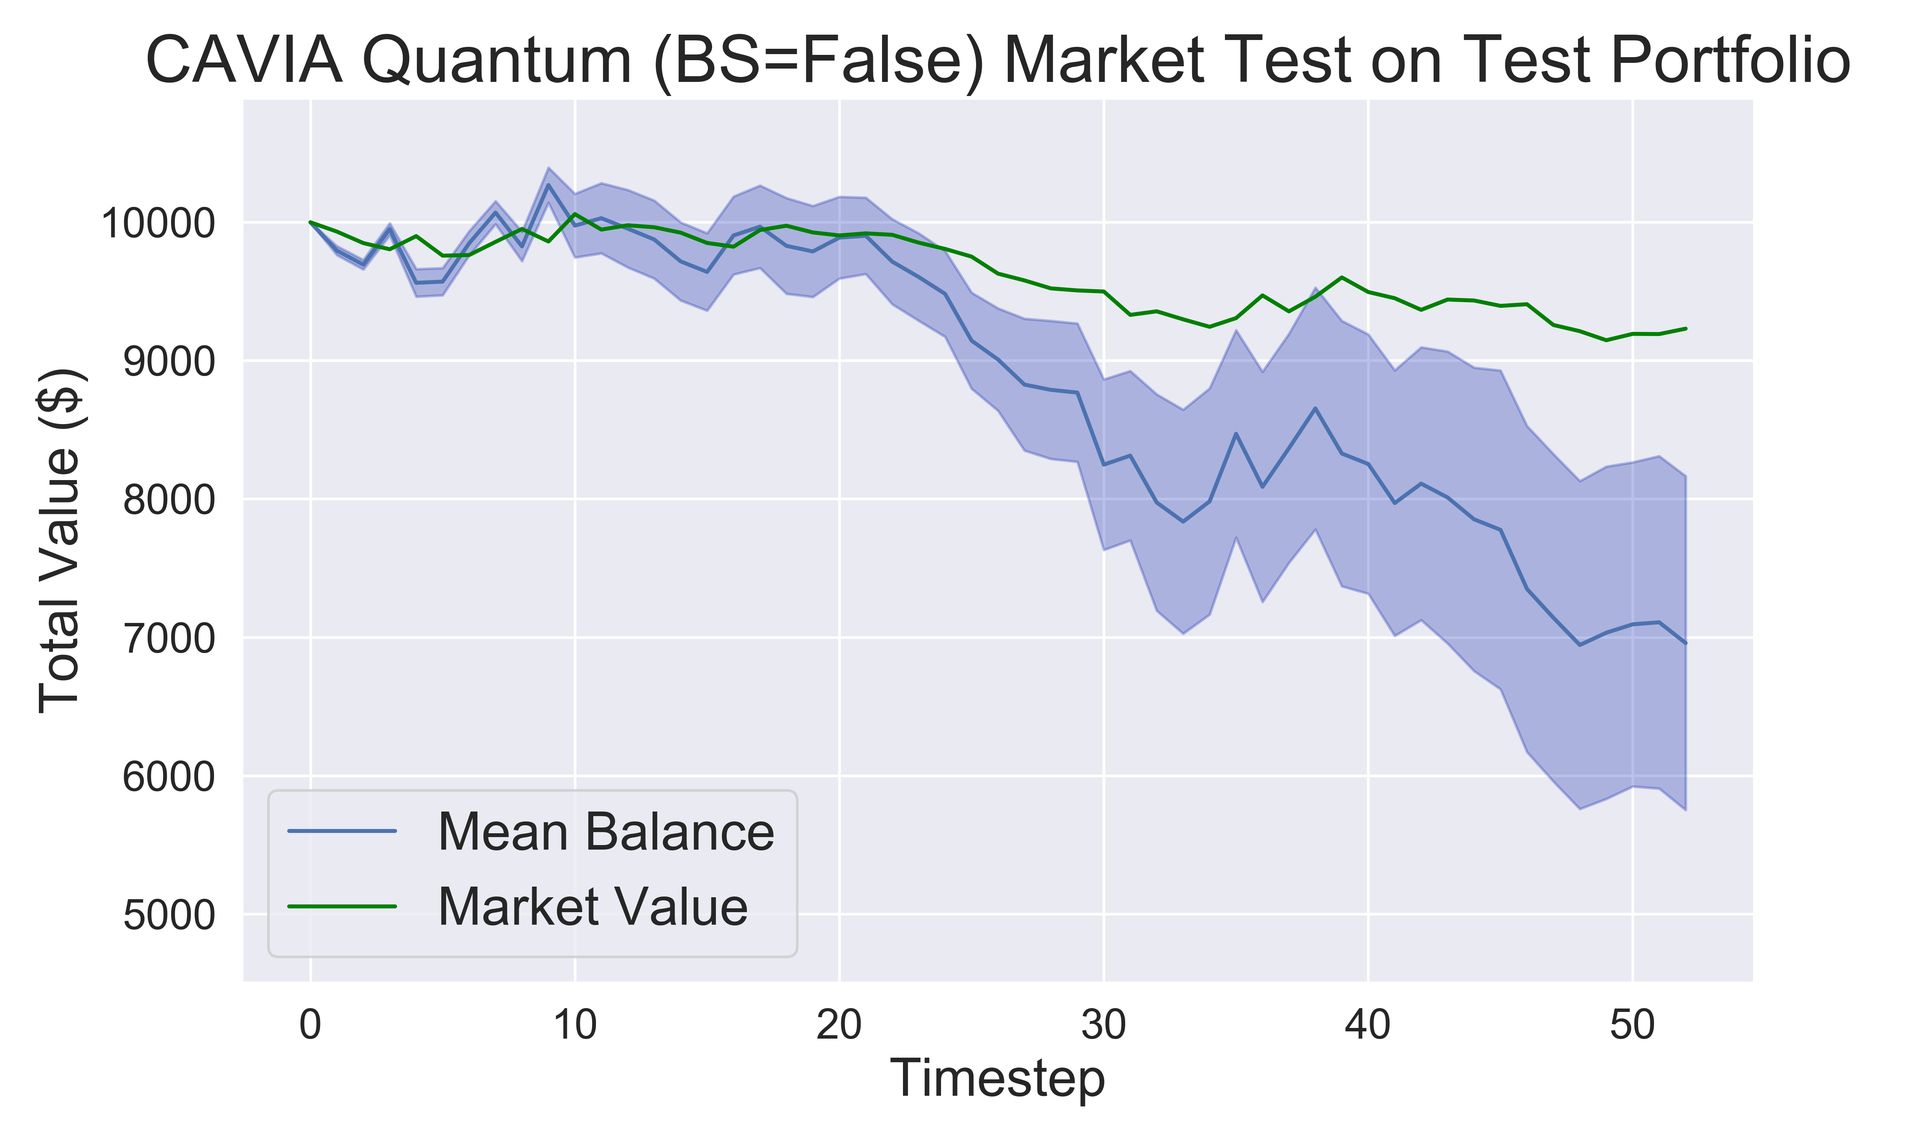
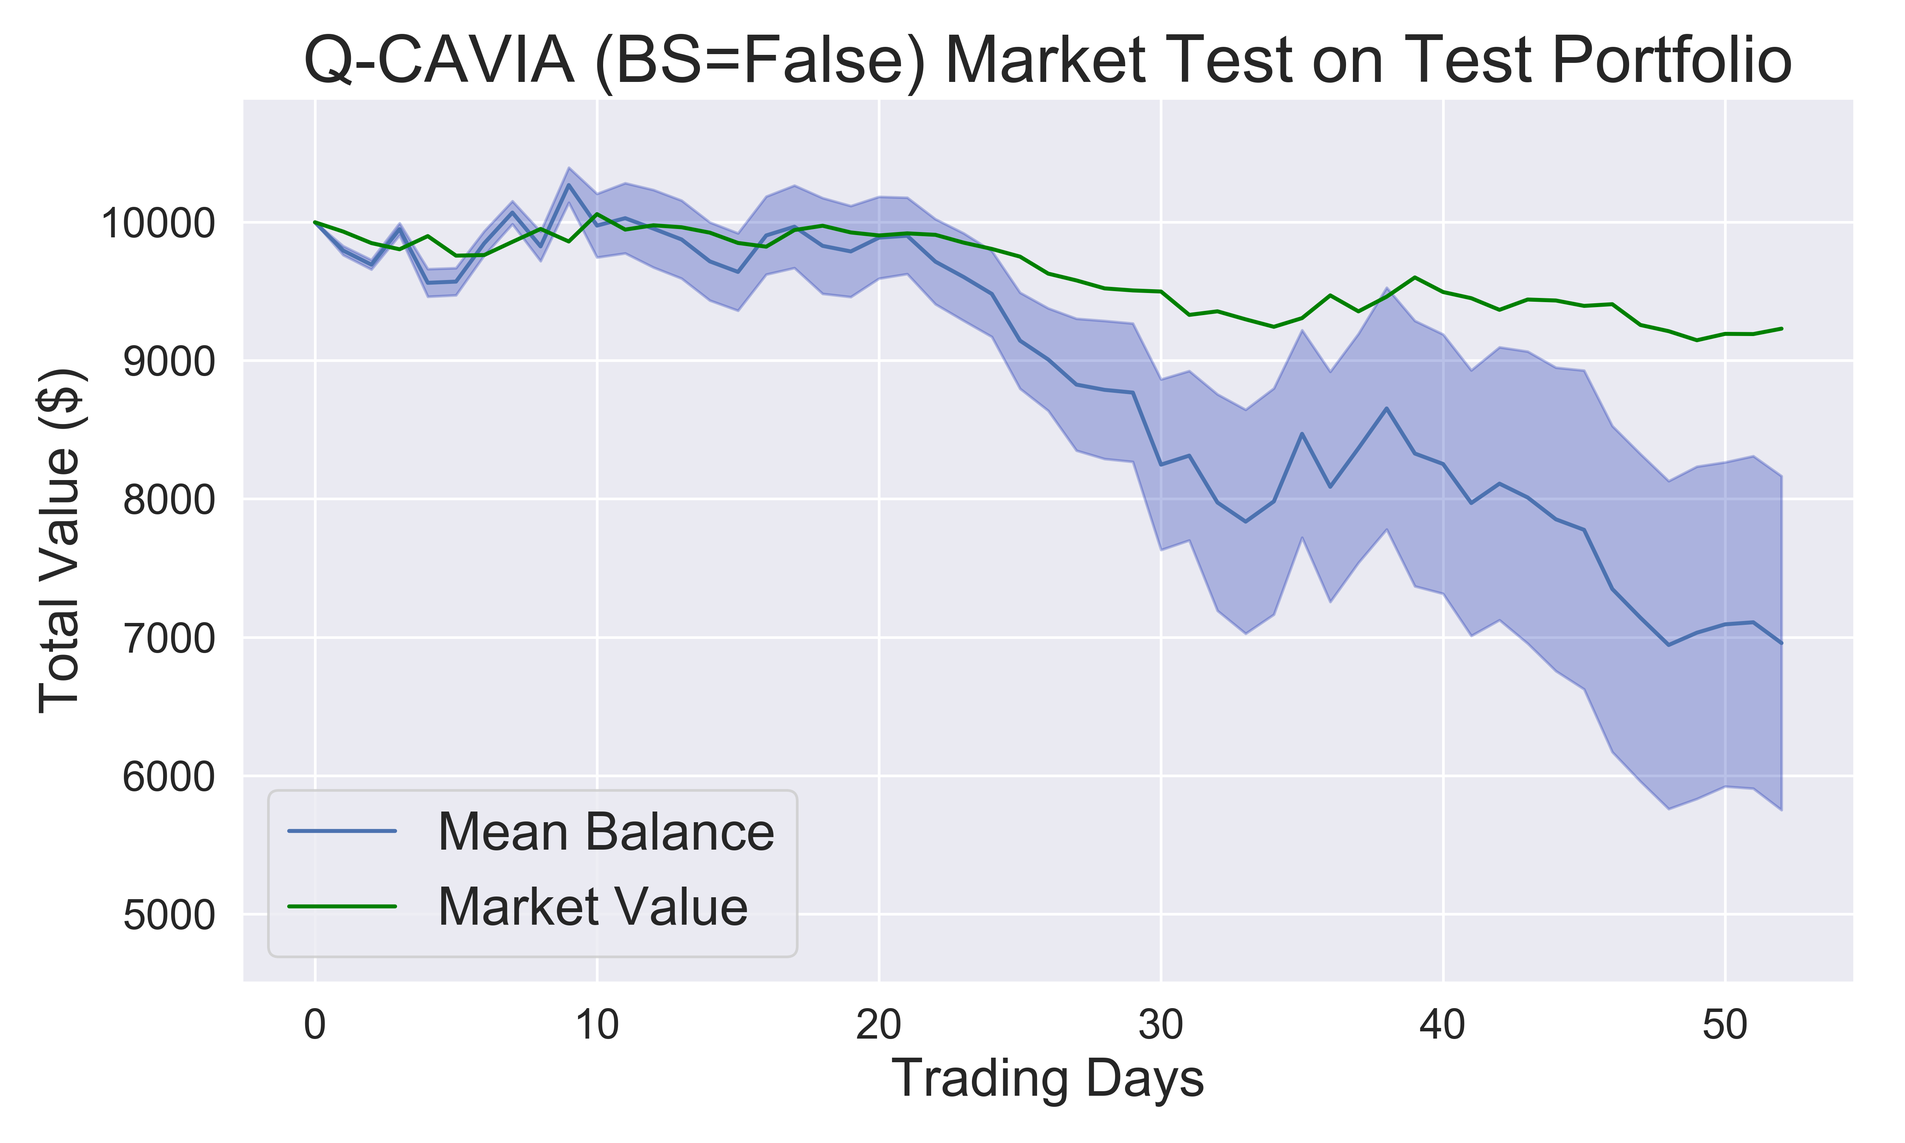
Updated plots with new axis titles

diff --git a/NES_Meta_Trading/plot_data.py b/NES_Meta_Trading/plot_data.py
@@ -193,7 +193,7 @@ def market_test_plot(trial_path, data_path, num_days, plot_title, plot_save_loc,
     plt.plot(df.market_value, label='Market Value', color='green')
     plt.fill_between(df.index, df.Mean - df.STD, df.Mean + df.STD, color = (0.1,0.2,0.7,0.3))
     plt.legend(loc=legend_loc)
-    plt.xlabel('Timestep')
+    plt.xlabel('Trading Days')
     plt.ylabel('Total Value ($)')
     plt.ylim(ylim)
     plt.title(plot_title)
@@ -286,7 +286,7 @@ def market_test_detail(trial_path1, trial_path2, data_path, title1, title2, plot
     ax3.set_position([box.x0, box.y0, box.width * 0.8, box.height])
     ax3.legend(loc='center left', bbox_to_anchor=(1, 0.5))
     ax3.set_title('Market Value')
-    ax3.set_xlabel('Timestep')
+    ax3.set_xlabel('Trading Days')
     ax3.set_ylabel('Total Value ($)')
 
     # fig.suptitle(plot_title)
@@ -353,11 +353,11 @@ def market_test_stock(trial_path1, trial_path2, data_path, stock_name, label1, l
 
     # %%
     fig,ax = plt.subplots()
-    ax.title.set_text("Stock '{:}' Model Weights vs Market Value".format(stock_name))
-    ax.plot(range(len(data)), means1, color=tableau10[0], label=label1)
-    ax.plot(range(len(data)), means2, color=tableau10[1], label=label2)
-    ax.set_xlabel("Timestep")
-    ax.set_ylabel("Stock Weights in Portfolio")
+    ax.title.set_text("Stock '{:}' Weight in Portfolio vs Stock Price".format(stock_name))
+    ax.plot(range(len(data)), means1, color=tableau10[0], label=label1, linestyle='dashed')
+    ax.plot(range(len(data)), means2, color=tableau10[1], label=label2, linestyle='dashed')
+    ax.set_xlabel("Trading Days")
+    ax.set_ylabel("Stock Weight")
     vals = ax.get_yticks()
     ax.set_yticklabels(['{:}%'.format(int(x)) for x in vals])
     ax.legend(loc=label_loc)
@@ -495,19 +495,19 @@ market_test_detail(
     trading_limit=10
 )
 ################
-# MAML Quantum BS=False#
+# Q-MAML BS=False#
 ################
 training_plot(
     trial_path='C:/Github/QuantumResearch/NES_Meta_Trading/results/maml_quantum/train/E=25_PS=15_S=0.1_LR=0.03_sk=1_IM=10000_L=None_WS=1_ND=180_BS=False',
     num_remove=0,
-    plot_title='MAML Quantum (BS=False) Training on CC Stock Portfolios',
+    plot_title='Q-MAML (BS=False) Training on CC Stock Portfolios',
     plot_save_loc='C:/Github/QuantumResearch/NES_Meta_Trading/graphics/MAML_Quantum/MAML_Quantum_BSFalse_50-10Epochs_12iters_CCData_LimitNone_training.png',
     ylim=(-15,72)
 )
 training_plot(
     trial_path='C:/Github/QuantumResearch/NES_Meta_Trading/results/maml_quantum/test/E=5_PS=15_S=0.1_LR=0.03_sk=1_IM=10000_L=None_WS=1_ND=180_BS=False',
     num_remove=0,
-    plot_title='MAML Quantum (BS=False) Test Training on Test Portfolio',
+    plot_title='Q-MAML (BS=False) Test Training on Test Portfolio',
     plot_save_loc='C:/Github/QuantumResearch/NES_Meta_Trading/graphics/MAML_Quantum/MAML_Quantum_BSFalse_50-10Epochs_12iters_CCData_LimitNone_testTrain.png',
     ylim=(-15, 72)
 )
@@ -515,7 +515,7 @@ market_test_plot(
     trial_path='C:/Github/QuantumResearch/NES_Meta_Trading/results/maml_quantum/test/E=5_PS=15_S=0.1_LR=0.03_sk=1_IM=10000_L=None_WS=1_ND=180_BS=False',
     data_path='C:/Github/QuantumResearch/NES_Meta_Trading/dataset/test_cavia/',
     num_days=180,
-    plot_title='MAML Quantum (BS=False) Market Test on Test Portfolio',
+    plot_title='Q-MAML (BS=False) Market Test on Test Portfolio',
     plot_save_loc='C:/Github/QuantumResearch/NES_Meta_Trading/graphics/MAML_Quantum/MAML_Quantum_BSFalse_50-10Epochs_12iters_CCData_LimitNone_marketTest.png',
     legend_loc='lower left',
     trading_limit=200,
@@ -524,19 +524,19 @@ market_test_plot(
 )
 
 #################
-# CAVIA Quantum BS=False#
+# Q-CAVIA BS=False#
 #################
 training_plot(
     trial_path='C:/Github/QuantumResearch/NES_Meta_Trading/results/cavia_quantum/train/E=25_PS=15_S=0.1_LR=0.03_sk=1_IM=10000_L=None_WS=1_ND=180_NCP=2_BS=False',
     num_remove=0,
-    plot_title='CAVIA Quantum (BS=False) Training on CC Stock Portfolios',
+    plot_title='Q-CAVIA (BS=False) Training on CC Stock Portfolios',
     plot_save_loc='C:/Github/QuantumResearch/NES_Meta_Trading/graphics/CAVIA_Quantum/CAVIA_Quantum_BSFalse_50-10Epochs_12iters_CCData_LimitNone_training.png',
     ylim=(-25,62)
 )
 training_plot(
     trial_path='C:/Github/QuantumResearch/NES_Meta_Trading/results/cavia_quantum/test/E=5_PS=15_S=0.1_LR=0.03_sk=1_IM=10000_L=None_WS=1_ND=180_NCP=2_BS=False',
     num_remove=0,
-    plot_title='CAVIA Quantum (BS=False) Test Training on Test Portfolio',
+    plot_title='Q-CAVIA (BS=False) Test Training on Test Portfolio',
     plot_save_loc='C:/Github/QuantumResearch/NES_Meta_Trading/graphics/CAVIA_Quantum/CAVIA_Quantum_BSFalse_50-10Epochs_12iters_CCData_LimitNone_testTrain.png',
     ylim=(-25, 62)
 )
@@ -544,7 +544,7 @@ market_test_plot(
     trial_path='C:/Github/QuantumResearch/NES_Meta_Trading/results/cavia_quantum/test/E=5_PS=15_S=0.1_LR=0.03_sk=1_IM=10000_L=None_WS=1_ND=180_NCP=2_BS=False',
     data_path='C:/Github/QuantumResearch/NES_Meta_Trading/dataset/test_cavia/',
     num_days=180,
-    plot_title='CAVIA Quantum (BS=False) Market Test on Test Portfolio',
+    plot_title='Q-CAVIA (BS=False) Market Test on Test Portfolio',
     plot_save_loc='C:/Github/QuantumResearch/NES_Meta_Trading/graphics/CAVIA_Quantum/CAVIA_Quantum_BSFalse_50-10Epochs_12iters_CCData_LimitNone_marketTest.png',
     legend_loc='lower left',
     trading_limit=200,
@@ -557,26 +557,26 @@ market_test_detail(
     trial_path2='C:/Github/QuantumResearch/NES_Meta_Trading/results/cavia_quantum/test/E=5_PS=15_S=0.1_LR=0.03_sk=1_IM=10000_L=None_WS=1_ND=180_NCP=2_BS=False',
     data_path='C:/Github/QuantumResearch/NES_Meta_Trading/dataset/test_cavia/',
     plot_save_loc='C:/Github/QuantumResearch/NES_Meta_Trading/graphics/CAVIA_Quantum/CAVIA_MAML_Quantum_BSFalse_2500-20Epochs_12iters_CCData_Limit10_marketTestDetail.png',
-    title1='MAML Quantum (BS=False) Distribution of Portfolio',
-    title2='CAVIA Quantum (BS=False) Distribution of Portfolio',
+    title1='Q-MAML (BS=False) Distribution of Portfolio',
+    title2='Q-CAVIA (BS=False) Distribution of Portfolio',
     num_days=180,
     trading_limit=200
 )
 
 ################
-# MAML Quantum BS=True#
+# Q-MAML BS=True#
 ################
 training_plot(
     trial_path='C:/Github/QuantumResearch/NES_Meta_Trading/results/maml_quantum/train/E=25_PS=15_S=0.1_LR=0.03_sk=1_IM=10000_L=None_WS=1_ND=180_BS=True',
     num_remove=0,
-    plot_title='MAML Quantum (BS=True) Training on CC Stock Portfolios',
+    plot_title='Q-MAML (BS=True) Training on CC Stock Portfolios',
     plot_save_loc='C:/Github/QuantumResearch/NES_Meta_Trading/graphics/MAML_Quantum/MAML_Quantum_BSTrue_50-10Epochs_12iters_CCData_LimitNone_training.png',
     ylim=(-18,39)
 )
 training_plot(
     trial_path='C:/Github/QuantumResearch/NES_Meta_Trading/results/maml_quantum/test/E=5_PS=15_S=0.1_LR=0.03_sk=1_IM=10000_L=None_WS=1_ND=180_BS=True',
     num_remove=0,
-    plot_title='MAML Quantum (BS=True) Test Training on Test Portfolio',
+    plot_title='Q-MAML (BS=True) Test Training on Test Portfolio',
     plot_save_loc='C:/Github/QuantumResearch/NES_Meta_Trading/graphics/MAML_Quantum/MAML_Quantum_BSTrue_50-10Epochs_12iters_CCData_LimitNone_testTrain.png',
     ylim=(-18, 39)
 )
@@ -584,7 +584,7 @@ market_test_plot(
     trial_path='C:/Github/QuantumResearch/NES_Meta_Trading/results/maml_quantum/test/E=5_PS=15_S=0.1_LR=0.03_sk=1_IM=10000_L=None_WS=1_ND=180_BS=True',
     data_path='C:/Github/QuantumResearch/NES_Meta_Trading/dataset/test_cavia/',
     num_days=180,
-    plot_title='MAML Quantum (BS=True) Market Test on Test Portfolio',
+    plot_title='Q-MAML (BS=True) Market Test on Test Portfolio',
     plot_save_loc='C:/Github/QuantumResearch/NES_Meta_Trading/graphics/MAML_Quantum/MAML_Quantum_BSTrue_50-10Epochs_12iters_CCData_LimitNone_marketTest.png',
     legend_loc='lower left',
     trading_limit=200,
@@ -593,19 +593,19 @@ market_test_plot(
 )
 
 #################
-# CAVIA Quantum BS=True#
+# Q-CAVIA BS=True#
 #################
 training_plot(
     trial_path='C:/Github/QuantumResearch/NES_Meta_Trading/results/cavia_quantum/train/E=25_PS=15_S=0.1_LR=0.03_sk=1_IM=10000_L=None_WS=1_ND=180_NCP=2_BS=True',
     num_remove=0,
-    plot_title='CAVIA Quantum (BS=True) Training on CC Stock Portfolios',
+    plot_title='Q-CAVIA (BS=True) Training on CC Stock Portfolios',
     plot_save_loc='C:/Github/QuantumResearch/NES_Meta_Trading/graphics/CAVIA_Quantum/CAVIA_Quantum_BSTrue_50-10Epochs_12iters_CCData_LimitNone_training.png',
     ylim=(-15,37)
 )
 training_plot(
     trial_path='C:/Github/QuantumResearch/NES_Meta_Trading/results/cavia_quantum/test/E=5_PS=15_S=0.1_LR=0.03_sk=1_IM=10000_L=None_WS=1_ND=180_NCP=2_BS=True',
     num_remove=0,
-    plot_title='CAVIA Quantum (BS=True) Test Training on Test Portfolio',
+    plot_title='Q-CAVIA (BS=True) Test Training on Test Portfolio',
     plot_save_loc='C:/Github/QuantumResearch/NES_Meta_Trading/graphics/CAVIA_Quantum/CAVIA_Quantum_BSTrue_50-10Epochs_12iters_CCData_LimitNone_testTrain.png',
     ylim=(-15, 37)
 )
@@ -613,7 +613,7 @@ market_test_plot(
     trial_path='C:/Github/QuantumResearch/NES_Meta_Trading/results/cavia_quantum/test/E=5_PS=15_S=0.1_LR=0.03_sk=1_IM=10000_L=None_WS=1_ND=180_NCP=2_BS=True',
     data_path='C:/Github/QuantumResearch/NES_Meta_Trading/dataset/test_cavia/',
     num_days=180,
-    plot_title='CAVIA Quantum (BS=True) Market Test on Test Portfolio',
+    plot_title='Q-CAVIA (BS=True) Market Test on Test Portfolio',
     plot_save_loc='C:/Github/QuantumResearch/NES_Meta_Trading/graphics/CAVIA_Quantum/CAVIA_Quantum_BSTrue_50-10Epochs_12iters_CCData_LimitNone_marketTest.png',
     legend_loc='lower left',
     trading_limit=200,
@@ -626,8 +626,8 @@ market_test_detail(
     trial_path2='C:/Github/QuantumResearch/NES_Meta_Trading/results/cavia_quantum/test/E=5_PS=15_S=0.1_LR=0.03_sk=1_IM=10000_L=None_WS=1_ND=180_NCP=2_BS=True',
     data_path='C:/Github/QuantumResearch/NES_Meta_Trading/dataset/test_cavia/',
     plot_save_loc='C:/Github/QuantumResearch/NES_Meta_Trading/graphics/CAVIA_Quantum/CAVIA_MAML_Quantum_BSTrue_2500-20Epochs_12iters_CCData_Limit10_marketTestDetail.png',
-    title1='MAML Quantum (BS=True) Distribution of Portfolio',
-    title2='CAVIA Quantum (BS=True) Distribution of Portfolio',
+    title1='Q-MAML (BS=True) Distribution of Portfolio',
+    title2='Q-CAVIA (BS=True) Distribution of Portfolio',
     num_days=180,
     trading_limit=200
 )
@@ -635,88 +635,88 @@ market_test_detail(
 #################
 # QMAML and QCAVIA on 180 days of trading
 #################
-training_plot(
-    trial_path='C:/Github/QuantumResearch/NES_Meta_Trading/results/maml_quantum/train/E=25_PS=15_S=0.1_LR=0.03_sk=1_IM=10000_L=None_WS=1_ND=180_BS=False',
-    num_remove=0,
-    plot_title='MAML Quantum (BS=False) Training on CC Stock Portfolios',
-    plot_save_loc='C:/Github/QuantumResearch/NES_Meta_Trading/graphics/Quantum_180_Days/MAML_Quantum_BSFalse_25-5Epochs_8iters_CCData_LimitNone_training.png'
-)
-training_plot(
-    trial_path='C:/Github/QuantumResearch/NES_Meta_Trading/results/maml_quantum/test/E=5_PS=15_S=0.1_LR=0.03_sk=1_IM=10000_L=None_WS=1_ND=180_BS=False',
-    num_remove=0,
-    plot_title='MAML Quantum (BS=False) Test Training on Test Portfolio',
-    plot_save_loc='C:/Github/QuantumResearch/NES_Meta_Trading/graphics/Quantum_180_Days/MAML_Quantum_BSFalse_25-5Epochs_8iters_CCData_LimitNone_testTrain.png'
-)
-market_test_plot(
-    trial_path='C:/Github/QuantumResearch/NES_Meta_Trading/results/maml_quantum/test/E=5_PS=15_S=0.1_LR=0.03_sk=1_IM=10000_L=None_WS=1_ND=180_BS=False',
-    data_path='C:/Github/QuantumResearch/NES_Meta_Trading/dataset/test_cavia/',
-    num_days=180,
-    plot_title='MAML Quantum (BS=False) Market Test on Test Portfolio',
-    plot_save_loc='C:/Github/QuantumResearch/NES_Meta_Trading/graphics/Quantum_180_Days/MAML_Quantum_BSFalse_25-5Epochs_8iters_CCData_LimitNone_marketTest.png',
-    legend_loc='lower left',
-    trading_limit=200,
-    offset=-1
-)
-
-######################################
-
-training_plot(
-    trial_path='C:/Github/QuantumResearch/NES_Meta_Trading/results/cavia_quantum/train/E=25_PS=15_S=0.1_LR=0.03_sk=1_IM=10000_L=None_WS=1_ND=180_NCP=2_BS=False',
-    num_remove=0,
-    plot_title='CAVIA Quantum (BS=False) Training on CC Stock Portfolios',
-    plot_save_loc='C:/Github/QuantumResearch/NES_Meta_Trading/graphics/Quantum_180_Days/CAVIA_Quantum_BSFalse_25-5Epochs_8iters_CCData_LimitNone_training.png'
-)
-training_plot(
-    trial_path='C:/Github/QuantumResearch/NES_Meta_Trading/results/cavia_quantum/test/E=5_PS=15_S=0.1_LR=0.03_sk=1_IM=10000_L=None_WS=1_ND=180_NCP=2_BS=False',
-    num_remove=0,
-    plot_title='CAVIA Quantum (BS=False) Test Training on Test Portfolio',
-    plot_save_loc='C:/Github/QuantumResearch/NES_Meta_Trading/graphics/Quantum_180_Days/CAVIA_Quantum_BSFalse_25-5Epochs_8iters_CCData_LimitNone_testTrain.png'
-)
-market_test_plot(
-    trial_path='C:/Github/QuantumResearch/NES_Meta_Trading/results/cavia_quantum/test/E=5_PS=15_S=0.1_LR=0.03_sk=1_IM=10000_L=None_WS=1_ND=180_NCP=2_BS=False',
-    data_path='C:/Github/QuantumResearch/NES_Meta_Trading/dataset/test_cavia/',
-    num_days=180,
-    plot_title='CAVIA Quantum (BS=False) Market Test on Test Portfolio',
-    plot_save_loc='C:/Github/QuantumResearch/NES_Meta_Trading/graphics/Quantum_180_Days/CAVIA_Quantum_BSFalse_25-5Epochs_8iters_CCData_LimitNone_marketTest.png',
-    legend_loc='lower left',
-    trading_limit=200,
-    offset=-1
-)
-market_test_detail(
-    trial_path1='C:/Github/QuantumResearch/NES_Meta_Trading/results/maml_quantum/test/E=5_PS=15_S=0.1_LR=0.03_sk=1_IM=10000_L=None_WS=1_ND=180_BS=False',
-    trial_path2='C:/Github/QuantumResearch/NES_Meta_Trading/results/cavia_quantum/test/E=5_PS=15_S=0.1_LR=0.03_sk=1_IM=10000_L=None_WS=1_ND=180_NCP=2_BS=False',
-    data_path='C:/Github/QuantumResearch/NES_Meta_Trading/dataset/test_cavia/',
-    plot_save_loc='C:/Github/QuantumResearch/NES_Meta_Trading/graphics/Quantum_180_Days/CAVIA_MAML_Quantum_BSFalse_25-5Epochs_8iters_CCData_LimitNone_marketTestDetail.png',
-    title1='MAML Quantum (BS=False) Distribution of Portfolio',
-    title2='CAVIA Quantum (BS=False) Distribution of Portfolio',
-    num_days=180,
-    trading_limit=200
-)
-
-#################
-# QMAML and QCAVIA on 360 days of trading
-#################
-training_plot(
-    trial_path='C:/Github/QuantumResearch/NES_Meta_Trading/results/maml_quantum/train/E=25_PS=15_S=0.1_LR=0.03_sk=1_IM=10000_L=None_WS=1_ND=360_BS=False',
-    num_remove=0,
-    plot_title='MAML Quantum (BS=False) Training on CC Stock Portfolios',
-    plot_save_loc='C:/Github/QuantumResearch/NES_Meta_Trading/graphics/Quantum_360_Days/MAML_Quantum_BSFalse_25-5Epochs_8iters_CCData_LimitNone_training.png'
-)
-training_plot(
-    trial_path='C:/Github/QuantumResearch/NES_Meta_Trading/results/maml_quantum/test/E=10_PS=15_S=0.1_LR=0.03_sk=1_IM=10000_L=None_WS=1_ND=360_BS=False',
-    num_remove=0,
-    plot_title='MAML Quantum (BS=False) Test Training on Test Portfolio',
-    plot_save_loc='C:/Github/QuantumResearch/NES_Meta_Trading/graphics/Quantum_360_Days/MAML_Quantum_BSFalse_25-5Epochs_8iters_CCData_LimitNone_testTrain.png'
-)
-market_test_plot(
-    trial_path='C:/Github/QuantumResearch/NES_Meta_Trading/results/maml_quantum/test/E=10_PS=15_S=0.1_LR=0.03_sk=1_IM=10000_L=None_WS=1_ND=360_BS=False',
-    data_path='C:/Github/QuantumResearch/NES_Meta_Trading/dataset/test_cavia/',
-    num_days=360,
-    plot_title='MAML Quantum (BS=False) Market Test on Test Portfolio',
-    plot_save_loc='C:/Github/QuantumResearch/NES_Meta_Trading/graphics/Quantum_360_Days/MAML_Quantum_BSFalse_25-5Epochs_8iters_CCData_LimitNone_marketTest.png',
-    legend_loc='lower left',
-    trading_limit=200,
-    offset=-1
-)
-
-######################################
+# training_plot(
+#     trial_path='C:/Github/QuantumResearch/NES_Meta_Trading/results/maml_quantum/train/E=25_PS=15_S=0.1_LR=0.03_sk=1_IM=10000_L=None_WS=1_ND=180_BS=False',
+#     num_remove=0,
+#     plot_title='Q-MAML (BS=False) Training on CC Stock Portfolios',
+#     plot_save_loc='C:/Github/QuantumResearch/NES_Meta_Trading/graphics/Quantum_180_Days/MAML_Quantum_BSFalse_25-5Epochs_8iters_CCData_LimitNone_training.png'
+# )
+# training_plot(
+#     trial_path='C:/Github/QuantumResearch/NES_Meta_Trading/results/maml_quantum/test/E=5_PS=15_S=0.1_LR=0.03_sk=1_IM=10000_L=None_WS=1_ND=180_BS=False',
+#     num_remove=0,
+#     plot_title='Q-MAML (BS=False) Test Training on Test Portfolio',
+#     plot_save_loc='C:/Github/QuantumResearch/NES_Meta_Trading/graphics/Quantum_180_Days/MAML_Quantum_BSFalse_25-5Epochs_8iters_CCData_LimitNone_testTrain.png'
+# )
+# market_test_plot(
+#     trial_path='C:/Github/QuantumResearch/NES_Meta_Trading/results/maml_quantum/test/E=5_PS=15_S=0.1_LR=0.03_sk=1_IM=10000_L=None_WS=1_ND=180_BS=False',
+#     data_path='C:/Github/QuantumResearch/NES_Meta_Trading/dataset/test_cavia/',
+#     num_days=180,
+#     plot_title='Q-MAML (BS=False) Market Test on Test Portfolio',
+#     plot_save_loc='C:/Github/QuantumResearch/NES_Meta_Trading/graphics/Quantum_180_Days/MAML_Quantum_BSFalse_25-5Epochs_8iters_CCData_LimitNone_marketTest.png',
+#     legend_loc='lower left',
+#     trading_limit=200,
+#     offset=-1
+# )
+#
+# ######################################
+#
+# training_plot(
+#     trial_path='C:/Github/QuantumResearch/NES_Meta_Trading/results/cavia_quantum/train/E=25_PS=15_S=0.1_LR=0.03_sk=1_IM=10000_L=None_WS=1_ND=180_NCP=2_BS=False',
+#     num_remove=0,
+#     plot_title='Q-CAVIA (BS=False) Training on CC Stock Portfolios',
+#     plot_save_loc='C:/Github/QuantumResearch/NES_Meta_Trading/graphics/Quantum_180_Days/CAVIA_Quantum_BSFalse_25-5Epochs_8iters_CCData_LimitNone_training.png'
+# )
+# training_plot(
+#     trial_path='C:/Github/QuantumResearch/NES_Meta_Trading/results/cavia_quantum/test/E=5_PS=15_S=0.1_LR=0.03_sk=1_IM=10000_L=None_WS=1_ND=180_NCP=2_BS=False',
+#     num_remove=0,
+#     plot_title='Q-CAVIA (BS=False) Test Training on Test Portfolio',
+#     plot_save_loc='C:/Github/QuantumResearch/NES_Meta_Trading/graphics/Quantum_180_Days/CAVIA_Quantum_BSFalse_25-5Epochs_8iters_CCData_LimitNone_testTrain.png'
+# )
+# market_test_plot(
+#     trial_path='C:/Github/QuantumResearch/NES_Meta_Trading/results/cavia_quantum/test/E=5_PS=15_S=0.1_LR=0.03_sk=1_IM=10000_L=None_WS=1_ND=180_NCP=2_BS=False',
+#     data_path='C:/Github/QuantumResearch/NES_Meta_Trading/dataset/test_cavia/',
+#     num_days=180,
+#     plot_title='Q-CAVIA (BS=False) Market Test on Test Portfolio',
+#     plot_save_loc='C:/Github/QuantumResearch/NES_Meta_Trading/graphics/Quantum_180_Days/CAVIA_Quantum_BSFalse_25-5Epochs_8iters_CCData_LimitNone_marketTest.png',
+#     legend_loc='lower left',
+#     trading_limit=200,
+#     offset=-1
+# )
+# market_test_detail(
+#     trial_path1='C:/Github/QuantumResearch/NES_Meta_Trading/results/maml_quantum/test/E=5_PS=15_S=0.1_LR=0.03_sk=1_IM=10000_L=None_WS=1_ND=180_BS=False',
+#     trial_path2='C:/Github/QuantumResearch/NES_Meta_Trading/results/cavia_quantum/test/E=5_PS=15_S=0.1_LR=0.03_sk=1_IM=10000_L=None_WS=1_ND=180_NCP=2_BS=False',
+#     data_path='C:/Github/QuantumResearch/NES_Meta_Trading/dataset/test_cavia/',
+#     plot_save_loc='C:/Github/QuantumResearch/NES_Meta_Trading/graphics/Quantum_180_Days/CAVIA_MAML_Quantum_BSFalse_25-5Epochs_8iters_CCData_LimitNone_marketTestDetail.png',
+#     title1='Q-MAML (BS=False) Distribution of Portfolio',
+#     title2='Q-CAVIA (BS=False) Distribution of Portfolio',
+#     num_days=180,
+#     trading_limit=200
+# )
+#
+# #################
+# # QMAML and QCAVIA on 360 days of trading
+# #################
+# training_plot(
+#     trial_path='C:/Github/QuantumResearch/NES_Meta_Trading/results/maml_quantum/train/E=25_PS=15_S=0.1_LR=0.03_sk=1_IM=10000_L=None_WS=1_ND=360_BS=False',
+#     num_remove=0,
+#     plot_title='Q-MAML (BS=False) Training on CC Stock Portfolios',
+#     plot_save_loc='C:/Github/QuantumResearch/NES_Meta_Trading/graphics/Quantum_360_Days/MAML_Quantum_BSFalse_25-5Epochs_8iters_CCData_LimitNone_training.png'
+# )
+# training_plot(
+#     trial_path='C:/Github/QuantumResearch/NES_Meta_Trading/results/maml_quantum/test/E=10_PS=15_S=0.1_LR=0.03_sk=1_IM=10000_L=None_WS=1_ND=360_BS=False',
+#     num_remove=0,
+#     plot_title='Q-MAML (BS=False) Test Training on Test Portfolio',
+#     plot_save_loc='C:/Github/QuantumResearch/NES_Meta_Trading/graphics/Quantum_360_Days/MAML_Quantum_BSFalse_25-5Epochs_8iters_CCData_LimitNone_testTrain.png'
+# )
+# market_test_plot(
+#     trial_path='C:/Github/QuantumResearch/NES_Meta_Trading/results/maml_quantum/test/E=10_PS=15_S=0.1_LR=0.03_sk=1_IM=10000_L=None_WS=1_ND=360_BS=False',
+#     data_path='C:/Github/QuantumResearch/NES_Meta_Trading/dataset/test_cavia/',
+#     num_days=360,
+#     plot_title='Q-MAML (BS=False) Market Test on Test Portfolio',
+#     plot_save_loc='C:/Github/QuantumResearch/NES_Meta_Trading/graphics/Quantum_360_Days/MAML_Quantum_BSFalse_25-5Epochs_8iters_CCData_LimitNone_marketTest.png',
+#     legend_loc='lower left',
+#     trading_limit=200,
+#     offset=-1
+# )
+#
+# ######################################
